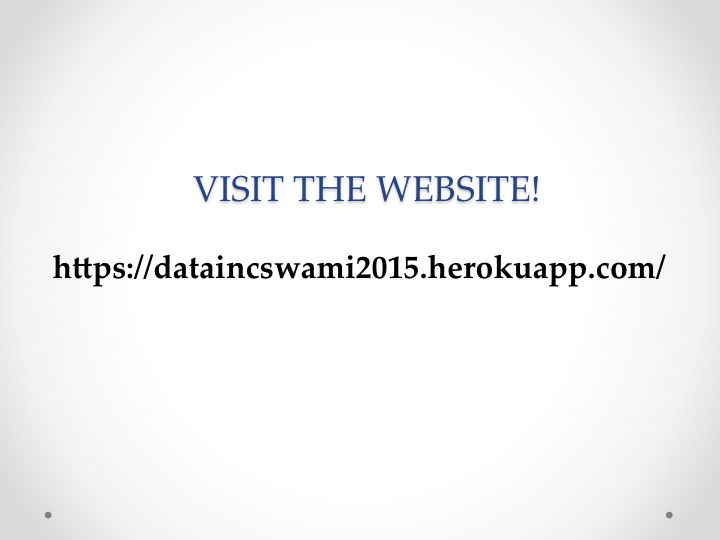
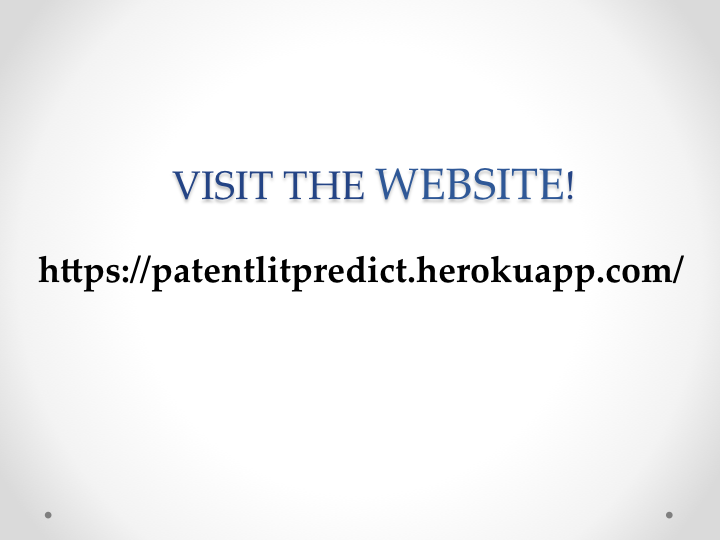
Ver 3.0.2: Minor Changes ssssssssssssssssssssssssssssssssssssssssssssssssssssssssssssssssss

Changed region(s): [[0.0306, 0.4741, 0.9472, 0.5333], [0.2444, 0.2963, 0.7944, 0.3852]]

diff --git a/home.html b/home.html
@@ -92,10 +92,10 @@ www.typeandgrids.com
 					<svg class="thumbnailMask"></svg>
 					<div class="projectThumbnailHover">
 						<h4>Introduction</h4>
-						<h5>Making patent litigation predictions</h5>
+						<h5>Making Patent Litigation Predictions</h5>
 					</div>
 					
-					<img src="images/projects/ConceptPicture.jpg" alt="Project 01" class="thumbnailImage" height="4900" width="4300"/>
+					<img src="images/projects/csc_strategy-s.jpg" alt="Project 01" class="thumbnailImage" height="4900" width="4300"/>
 				</div>
 				
 				<div class="projectInfo">
@@ -107,7 +107,8 @@ www.typeandgrids.com
 						<div class="projectNavButtons"><button class="prev"></button><button class="next"></button></div>
 					</div>
 					<p>
-						We wish to predict the likelihood of a patent going into litigation using both intrinsic patent text and "acquired" data due to post patent filing events.
+						<font size="20"> We wish to predict the likelihood of a patent going into litigation using both intrinsic patent text and "acquired" characteristics due to post patent filing events.
+						</font>
 					</p>
 					<!--<ul>
 						<li><strong>Client:</strong> Wernham Hogg</li>

diff --git a/projects/project_02/index.html b/projects/project_02/index.html
@@ -15,7 +15,7 @@ www.typeandgrids.com
 ••••••••••••••••••••••••
 -->
 
-<title>Data Analysis &mdash; Data Analysis</title>
+<title>Data Analysis And Prediction &mdash; Data Analysis And Prediction</title>
 <meta name="description" content="Project 01 detail view">
 <meta name="author" content="Introduction">
 <meta name="viewport" content="width=device-width, initial-scale=1, maximum-scale=1">
